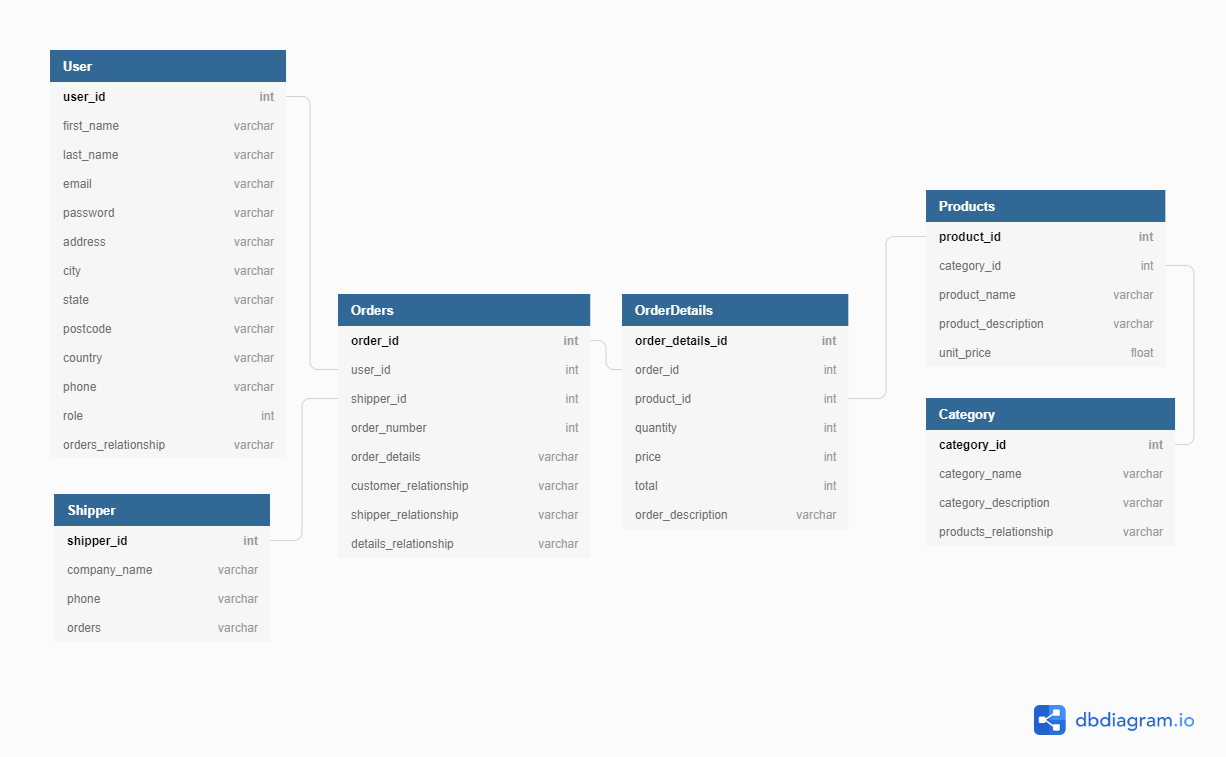
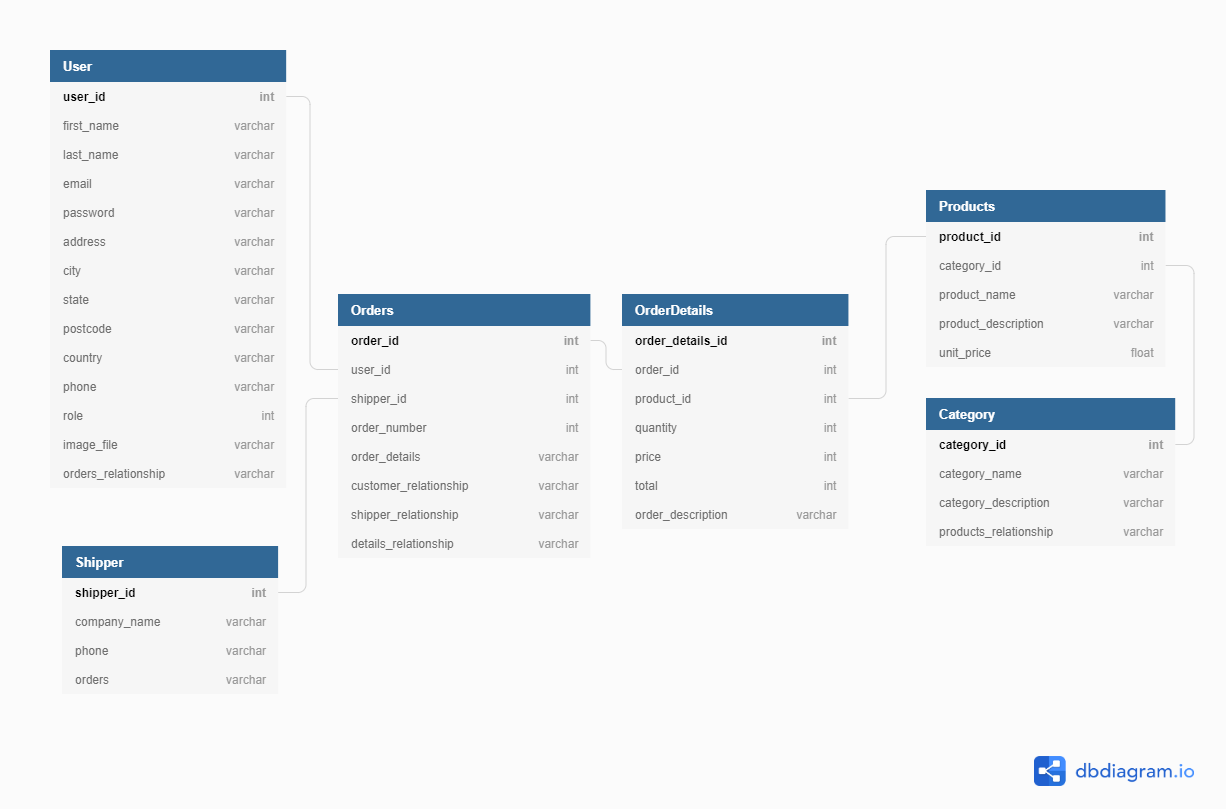
Update User Account Management and Profile Picture

diff --git a/flask_blog/templates/account.html b/flask_blog/templates/account.html
@@ -1,0 +1,97 @@
+{% extends 'layout.html' %}
+{% block content %}
+<div class="form-row">
+    <div class="col-12 col-md-8 mx-auto">
+        <div class="content-section">
+            <form method="POST" action="" enctype="multipart/form-data">
+                {{ form.hidden_tag() }}
+                <fieldset class="form-group">
+                    <label for="form-row">
+                        <h5>Account Informations</h5>
+                    </label>
+                    <div class="form-row">
+                        <div class="col-12 col-md-4 ml-md-2">
+                            <div class="media">
+                                <img class="rounded-circle account-img" src={{ image_file }}>
+                                <div class="media-body info_recap">
+                                    <span class="text-primary font-weight-bold">{{ current_user.first_name.title() }}{{ " " }}{{ current_user.last_name.title() }}</span>
+                                    <p class="text-secondary">{{ current_user.email }}</p>
+                                    <p class="text-secondary">{{ current_user.phone }}</p>
+                                </div>
+                            </div>
+                        </div>
+                    </div>
+                    <hr />
+                    <div class="form-row">
+                        <div class="col-6">
+                            <div class="form-row">
+                                <div class="col-12 col-md-8">
+                                    {{ form.first_name.label(class="form-control-label") }}
+                                    {% if form.first_name.errors %}
+                                    {{ form.first_name(class="form-control form-control-lg is-invalid") }}
+                                    <div class="invalid-feedback">
+                                        {% for error in form.first_name.errors %}
+                                        <span>{{ error }}</span>
+                                        {% endfor %}
+                                    </div>
+                                    {% else %}
+                                    {{ form.first_name(class="form-control form-control-lg") }}
+                                    {% endif %}
+                                </div>
+                            </div>
+                            <div class="form-row">
+                                <div class="col-12 col-md-8 mt-3">
+                                    {{ form.last_name.label(class="form-control-label") }}
+                                    {% if form.last_name.errors %}
+                                    {{ form.last_name(class="form-control form-control-lg is-invalid") }}
+                                    <div class="invalid-feedback">
+                                        {% for error in form.last_name.errors %}
+                                        <span>{{ error }}</span>
+                                        {% endfor %}
+                                    </div>
+                                    {% else %}
+                                    {{ form.last_name(class="form-control form-control-lg") }}
+                                    {% endif %}
+                                </div>
+                            </div>
+                            <div class="form-row">
+                                <div class="col-12 col-md-8 mt-3">
+                                    {{ form.email.label(class="form-control-label") }}
+                                    {% if form.email.errors %}
+                                    {{ form.email(class="form-control form-control-lg is-invalid") }}
+                                    <div class="invalid-feedback">
+                                        {% for error in form.email.errors %}
+                                        <span>{{ error }}</span>
+                                        {% endfor %}
+                                    </div>
+                                    {% else %}
+                                    {{ form.email(class="form-control form-control-lg") }}
+                                    {% endif %}
+                                </div>
+                            </div>
+                        </div>
+                        <div class="col-6">
+                            {{ form.picture.label() }}
+                            {{ form.picture(class="form-control-file") }}
+                            {% if form.picture.errors %}
+                            {% for error in form.picture.errors %}
+                            <span class="text-danger">{{ error }}</span><br />
+                            {% endfor %}
+                            {% endif %}
+                        </div>
+                    </div>
+                </fieldset>
+                <div class="form-group mt-3">
+                    {{ form.submit(class="btn btn-dark") }}
+                </div>
+            </form>
+        </div>
+    </div>
+</div>
+<br>
+<br>
+<br>
+<br>
+<br>
+<br>
+{% endblock content %}

diff --git a/flask_blog/templates/layout.html b/flask_blog/templates/layout.html
@@ -43,7 +43,7 @@
                 </div>
                 <div class="navbar-nav">
                     {% if current_user.is_authenticated %}
-                    <span class="reminder mt-2"></span><a class="nav-item nav-link text-white" href="#">{{ current_user.email }}</a>
+                    <span class="reminder mt-2"></span><a class="nav-item nav-link text-white" href="{{ url_for('account') }}">{{ current_user.email }}</a>
                     <a class="nav-item nav-link" href="{{url_for('logout')}}">Logout</a>
                     {% else %}
                     <a class="nav-item nav-link" href="{{url_for('login')}}">Login</a>

diff --git a/flask_blog/static/main.css b/flask_blog/static/main.css
@@ -3,6 +3,10 @@ body {
   color: #333333;
 }
 
+.info_recap {
+    text-align: left !important;
+}
+
 .submit-login {
     margin-top: 35px;
 }
@@ -127,10 +131,10 @@ a.article-title:hover {
 }
 
 .account-img {
-  height: 125px;
-  width: 125px;
-  margin-right: 20px;
-  margin-bottom: 16px;
+    height: 90px;
+    width: 90px;
+    margin-right: 20px;
+    margin-bottom: 16px;
 }
 
 .account-heading {

diff --git a/flask_blog/routes.py b/flask_blog/routes.py
@@ -1,6 +1,9 @@
+import os
+import secrets
+from PIL import Image
 from flask import render_template, url_for, flash, redirect, request
 from flask_blog import app, db, bcrypt
-from flask_blog.forms import ShippingForm, ShipperForm, DeleteShipperForm, CategoryForm, DeleteCategoryForm, ProductForm, DeleteProductForm, RegistrationForm, LoginForm
+from flask_blog.forms import ShippingForm, ShipperForm, DeleteShipperForm, CategoryForm, DeleteCategoryForm, ProductForm, DeleteProductForm, RegistrationForm, LoginForm, UpdateAccountForm
 from flask_blog.models import Shipping, User, Orders, OrderDetails, Products, Category, Shipper
 from flask_blog.functions import compare_shipping, get_category_choice
 from flask_login import login_user, current_user, logout_user, login_required
@@ -36,7 +39,7 @@ def shippers():
         db.session.commit()
         flash(f'You have successfully delete {todelete.company_name}', 'success')
         return redirect(url_for('shippers'))
-    
+
     return render_template('shippers.html', title='Shippers', form=form, form_delete=form_delete, shipper=shipper)
 
 @app.route('/category', methods=['GET', 'POST'])
@@ -68,7 +71,6 @@ def product():
     form = ProductForm()
     form_delete = DeleteProductForm()
     
-
     if form.validate_on_submit():
         product = Products(product_name=form.product_name.data, product_description=form.product_description.data, unit_price=form.unit_price.data, category_id=form.category_id.data)
         db.session.add(product)
@@ -99,6 +101,41 @@ def register():
         return redirect(url_for('login'))
 
     return render_template('register.html', title='Register', form=form)
+
+def save_picture(form_picture):
+    random_hex = secrets.token_hex(8)
+    _, f_ext = os.path.splitext(form_picture.filename)
+    picture_fn = random_hex + f_ext
+    picture_path = os.path.join(app.root_path, 'static/profile_pics', picture_fn)
+
+    output_size = (90, 90)
+    i = Image.open(form_picture)
+    i.thumbnail(output_size)
+    i.save(picture_path)
+
+    return picture_fn
+
+@app.route('/account', methods=['GET','POST'])
+@login_required
+def account():
+    form = UpdateAccountForm()
+    if form.validate_on_submit():
+        if form.picture.data:
+            picture_file = save_picture(form.picture.data)
+            current_user.image_file = picture_file
+        current_user.first_name = form.first_name.data
+        current_user.email = form.email.data
+        db.session.commit()
+        flash('You account has been updated!', 'success')
+        return redirect(url_for('account'))
+
+    elif request.method == 'GET':
+        form.first_name.data = current_user.first_name.title()
+        form.last_name.data = current_user.last_name.title()
+        form.email.data = current_user.email
+
+    image_file = url_for('static', filename='profile_pics/' +  current_user.image_file)
+    return render_template('account.html', title="Account", image_file=image_file, form=form)
 
 @app.route('/login', methods=['GET','POST'])
 def login():

diff --git a/flask_blog/forms.py b/flask_blog/forms.py
@@ -1,4 +1,6 @@
 from flask_wtf import FlaskForm
+from flask_wtf.file import FileField, FileAllowed
+from flask_login import current_user
 from wtforms import StringField, PasswordField, SubmitField, BooleanField, IntegerField, FloatField, HiddenField, SelectField
 from wtforms.validators import DataRequired, Length, Email, EqualTo, ValidationError, NumberRange
 from flask_blog.models import Shipper, Category, Products, User
@@ -105,3 +107,16 @@ class LoginForm(FlaskForm):
     password = PasswordField('Password', validators=[DataRequired()], render_kw={"placeholder": "Password"})
     remember = BooleanField('Remember Me')
     submit = SubmitField('Login')
+
+class UpdateAccountForm(FlaskForm):
+    first_name = StringField('Change First Name', validators=[DataRequired(), Length(min=3, max=20)], render_kw={"placeholder": "First Name"})
+    last_name = StringField('Change Last Name', validators=[DataRequired(), Length(min=3, max=20)], render_kw={"placeholder": "Last Name"})
+    email = StringField('Change Email', validators=[DataRequired(), Email()], render_kw={"placeholder": "Email"})
+    picture = FileField('Change Profile Picture', validators=[FileAllowed(['jpg', 'png'])])
+    submit = SubmitField('Update')
+
+    def validate_email(self, email):
+        if email.data != current_user.email:
+            email = User.query.filter_by(email=email.data).first()
+            if email:
+                raise ValidationError('That email is taken. Please choose a different one.')

diff --git a/flask_blog/models.py b/flask_blog/models.py
@@ -40,6 +40,7 @@ class User(db.Model, UserMixin):
     country = db.Column(db.String(40), nullable=False)
     phone = db.Column(db.String(40), nullable=False)
     role = db.Column(db.Integer, nullable=False, default=0)
+    image_file = db.Column(db.String(20), nullable=False, default='default.jpg')
 
     orders = db.relationship('Orders', backref='buy', lazy=True)
 
@@ -66,7 +67,7 @@ class User(db.Model, UserMixin):
         return True if self.role == 0 else False
 
     def __repr__(self):
-        return f"User('user_id(PK): {self.user_id}, first_name: {self.first_name}, last_name: {self.last_name}, phone: {self.phone}, email: {self.email}')"
+        return f"User('user_id(PK): {self.user_id}, first_name: {self.first_name}, last_name: {self.last_name}, phone: {self.phone}, email: {self.email}, image: {self.image_file}')"
 
 class Orders(db.Model):
     order_id = db.Column(db.Integer, primary_key=True)
